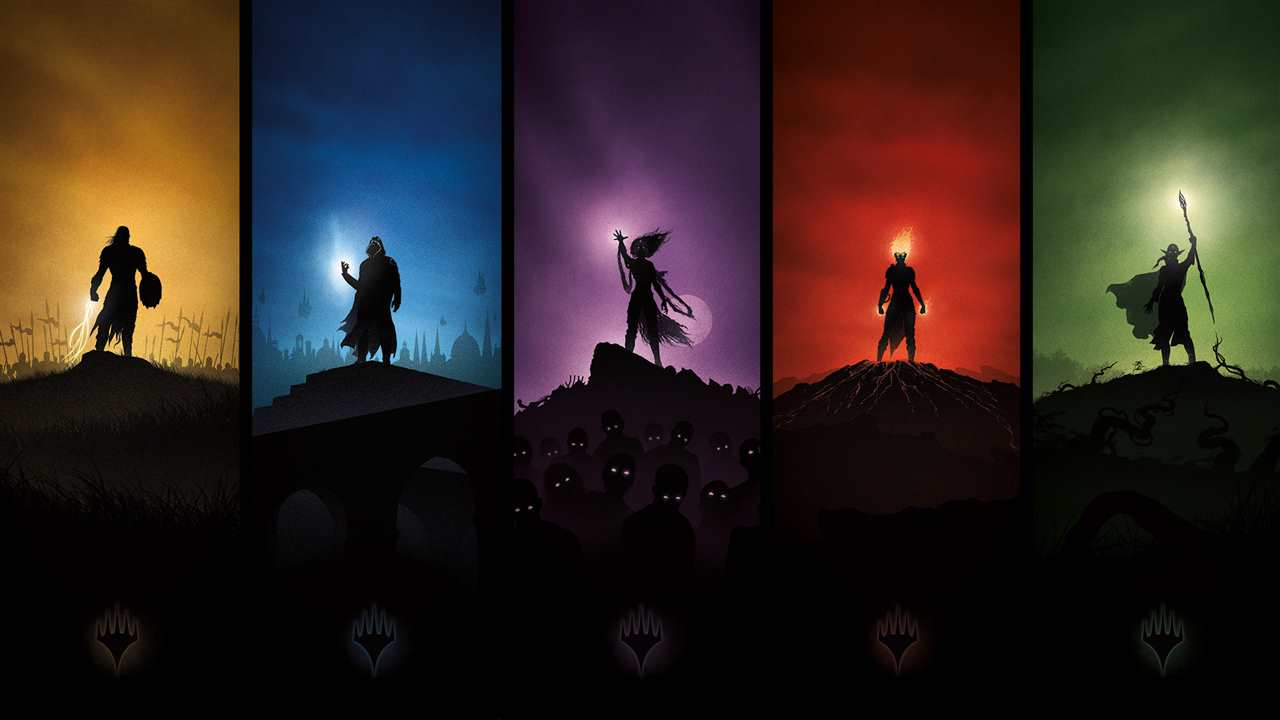
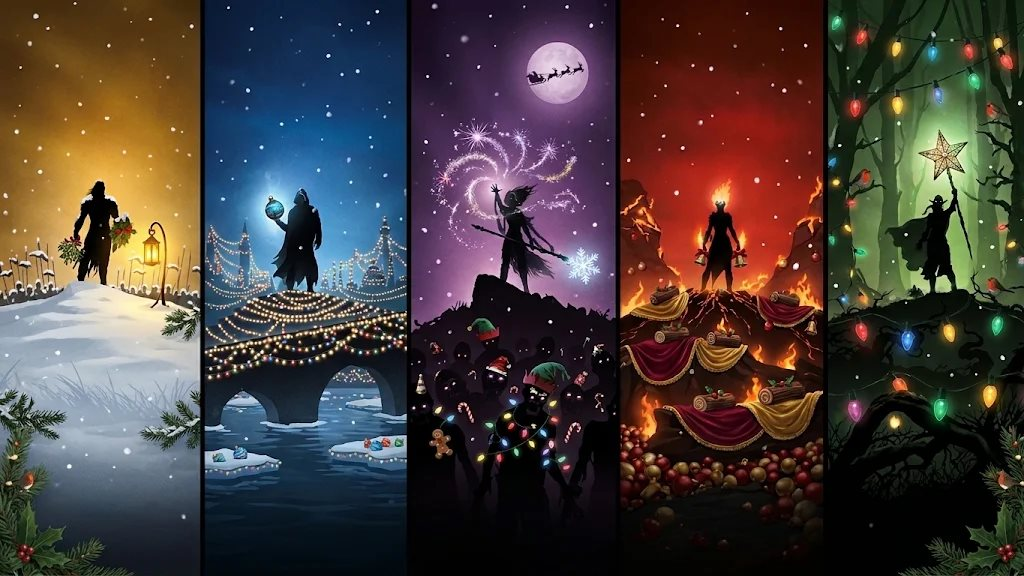
mtgadvent: new background, add offline --shuffle command, reshuffle days

diff --git a/draftsets.js b/draftsets.js
@@ -1,1 +1,1 @@
-window.MTGADVENT_DATA = {"year":2026,"exclude":["om1"],"sets":{"woe":{"name":"Wilds of Eldraine","released":"2023-09-08","icon":"https://svgs.scryfall.io/sets/woe.svg?1793595600","art":"https://cards.scryfall.io/art_crop/front/0/9/092c48bd-b648-4c9e-aa99-cac3c407911d.jpg?1783915130","artCard":"Moonshaker Cavalry","artist":"Aldo Domínguez","blurb":"Fairy-tale chaos with Roles, Bargain, Adventures and Food in a storybook forest."},"lci":{"name":"The Lost Caverns of Ixalan","released":"2023-11-17","icon":"https://svgs.scryfall.io/sets/lci.svg?1793595600","art":"https://cards.scryfall.io/art_crop/front/3/2/32fd8b7c-baf3-4d3d-be6f-044a917b11a0.jpg?1783913723","artCard":"Roaming Throne","artist":"Cristi Balanescu","blurb":"Dinosaurs, pirates, vampires and merfolk hunt for treasure with Discover, Craft and Descend."},"mkm":{"name":"Murders at Karlov Manor","released":"2024-02-09","icon":"https://svgs.scryfall.io/sets/mkm.svg?1793595600","art":"https://cards.scryfall.io/art_crop/front/b/e/be219928-3d0e-4d00-b124-152ce8a8c13b.jpg?1783912925","artCard":"Delney, Streetwise Lookout","artist":"Darren Tan","blurb":"A murder-mystery whodunit built on Investigate, Collect Evidence, Disguise and Cases to solve."},"otj":{"name":"Outlaws of Thunder Junction","released":"2024-04-19","icon":"https://svgs.scryfall.io/sets/otj.svg?1793595600","art":"https://cards.scryfall.io/art_crop/front/5/2/52eef0d6-24b7-40b7-8403-e8e863d0cd55.jpg?1783911810","artCard":"Bristly Bill, Spine Sower","artist":"Daniel Zrom","blurb":"Wild West heists and showdowns with Plot, Spree, Saddle and crimes that pay off."},"blb":{"name":"Bloomburrow","released":"2024-08-02","icon":"https://svgs.scryfall.io/sets/blb.svg?1793595600","art":"https://cards.scryfall.io/art_crop/front/a/d/ade32396-8841-4ba4-8852-d11146607f21.jpg?1783910846","artCard":"Mockingbird","artist":"Aurore Folny","blurb":"Ten woodland-animal tribes brawl with Offspring, Gift, Forage and Valiant."},"dsk":{"name":"Duskmourn: House of Horror","released":"2024-09-27","icon":"https://svgs.scryfall.io/sets/dsk.svg?1793595600","art":"https://cards.scryfall.io/art_crop/front/9/d/9d76a30c-0431-4334-892a-9822dda9671a.jpg?1783909457","artCard":"Enduring Vitality","artist":"Valera Lutfullina","blurb":"Haunted-house horror with Rooms, Survival, Impending and Manifest Dread."},"fdn":{"name":"Foundations","released":"2024-11-15","icon":"https://svgs.scryfall.io/sets/fdn.svg?1793595600","art":"https://cards.scryfall.io/art_crop/front/a/1/a1176dcf-40ee-4342-aa74-791b8352e99a.jpg?1783909088","artCard":"Scrawling Crawler","artist":"Miro Petrov","blurb":"The greatest hits: classic creature types and evergreen keywords from across Magic history."},"dft":{"name":"Aetherdrift","released":"2025-02-14","icon":"https://svgs.scryfall.io/sets/dft.svg?1793595600","art":"https://cards.scryfall.io/art_crop/front/d/7/d79ca40a-e5c0-4956-8df0-ecbd2a25656f.jpg?1783907895","artCard":"Gonti, Night Minister","artist":"Scott M. Fischer","blurb":"A high-speed racing set run on Speed, Start Your Engines, Exhaust and Vehicles."},"tdm":{"name":"Tarkir: Dragonstorm","released":"2025-04-11","icon":"https://svgs.scryfall.io/sets/tdm.svg?1793595600","art":"https://cards.scryfall.io/art_crop/front/e/c/ec3de5f4-bb55-4ab9-995f-f3e0dc22c1bb.jpg?1783907401","artCard":"Voice of Victory","artist":"Joshua Cairos","blurb":"Dragons and the five khan clans with Mobilize, Omens, Harmonize and Renew."},"fin":{"name":"Final Fantasy","released":"2025-06-13","icon":"https://svgs.scryfall.io/sets/fin.svg?1793595600","art":"https://cards.scryfall.io/art_crop/front/e/c/ecc1027a-8c07-44a0-bdde-fa2844cff694.jpg?1783906561","artCard":"Vivi Ornitier","artist":"Toni Infante","blurb":"Final Fantasy jobs and summons: Job Select equipment, Saga creatures and Towns."},"eoe":{"name":"Edge of Eternities","released":"2025-08-01","icon":"https://svgs.scryfall.io/sets/eoe.svg?1793595600","art":"https://cards.scryfall.io/art_crop/front/d/9/d9482aab-6ddf-48e1-84fa-b13d5ff81e69.jpg?1783905935","artCard":"Icetill Explorer","artist":"Warren Mahy","blurb":"Space opera with Station, Warp, Void and Lander tokens out past the edge of the galaxy."},"spm":{"name":"Marvel's Spider-Man","released":"2025-09-26","icon":"https://svgs.scryfall.io/sets/spm.svg?1793595600","art":"https://cards.scryfall.io/art_crop/front/d/6/d672cfad-e656-47f8-bf93-64f262aff33e.jpg?1783905338","artCard":"Electro, Assaulting Battery","artist":"Piotr Dura","blurb":"Heroes, villains and Spider-people swinging through Marvel’s New York."},"tla":{"name":"Avatar: The Last Airbender","released":"2025-11-21","icon":"https://svgs.scryfall.io/sets/tla.svg?1793595600","art":"https://cards.scryfall.io/art_crop/front/3/4/340c5799-4964-44dd-8c48-8f3f3aba5211.jpg?1786399172","artCard":"Badgermole Cub","artist":"Nathaniel Himawan","blurb":"Four nations, four elements, and Airbending, Earthbending, Firebending and Waterbending."},"ecl":{"name":"Lorwyn Eclipsed","released":"2026-01-23","icon":"https://svgs.scryfall.io/sets/ecl.svg?1793595600","art":"https://cards.scryfall.io/art_crop/front/6/7/674960ce-ff33-4d5e-a24a-a4582b2e9809.jpg?1783904442","artCard":"Hexing Squelcher","artist":"Matt Stewart","blurb":"Lorwyn’s light and shadow with tribal synergies, Changelings, Blight and Vivid."},"tmt":{"name":"Teenage Mutant Ninja Turtles","released":"2026-03-06","icon":"https://svgs.scryfall.io/sets/tmt.svg?1793595600","art":"https://cards.scryfall.io/art_crop/front/8/8/88d36c32-d6f9-46e4-9cc8-08e6c0ff05d2.jpg?1783904066","artCard":"Krang, Utrom Warlord","artist":"Lordigan","blurb":"Teenage mutants in the shadows: Sneak, Disappear, Alliance and Mutagen tokens."},"sos":{"name":"Secrets of Strixhaven","released":"2026-04-24","icon":"https://svgs.scryfall.io/sets/sos.svg?1793595600","art":"https://cards.scryfall.io/art_crop/front/8/b/8b1e10e8-ea14-4761-910b-4072e2a18456.jpg?1783903680","artCard":"Grave Researcher // Reanimate","artist":"Izzy","blurb":"Five colleges built around instants and sorceries, with Opus, Increment and Infusion."},"msh":{"name":"Marvel Super Heroes","released":"2026-06-26","icon":"https://svgs.scryfall.io/sets/msh.svg?1793595600","art":"https://cards.scryfall.io/art_crop/front/3/2/32ddd5ac-57ed-4e78-8932-a65980191f6e.jpg?1783902889","artCard":"Ultron, Artificial Malevolence","artist":"Nino Is","blurb":"Heroes versus villains with Power-Up, Teamwork, Plans and transforming legends."},"hob":{"name":"The Hobbit","released":"2026-08-14","icon":"https://svgs.scryfall.io/sets/hob.svg?1793595600","art":"https://cards.scryfall.io/art_crop/front/c/9/c977fb5f-4436-41d0-af68-93b6d05897e5.jpg?1784376948","artCard":"The Queen of Dale","artist":"Magali Villeneuve","blurb":"The Battle of Five Armies, with Storied, Hone counters, Adventures, Amass and Landfall."},"fra":{"name":"Reality Fracture","released":"2026-10-02","icon":"https://svgs.scryfall.io/sets/fra.svg?1793595600","art":"https://cards.scryfall.io/art_crop/front/b/a/ba920f23-f05c-410e-8516-c93abedf1d4d.jpg?1789729662","artCard":"Samut, Hazoret's Champion","artist":"Grzegorz Rutkowski","blurb":"A multiverse in flux with Heartwood mana tokens, Prepared, Surveil and Threshold."},"trk":{"name":"Star Trek","released":"2026-11-13","icon":"https://svgs.scryfall.io/sets/trk.svg?1793595600","art":"https://cards.scryfall.io/art_crop/front/e/f/ef9c5790-d909-4271-90bd-5fa4816ddd6b.jpg?1784065540","artCard":"Dr. Beverly Crusher","artist":"Mattia Rangoni","blurb":"Starfleet crews and the Beam Me Up mechanic. Plan ahead before you boldly go."}},"days":[{"day":1,"sets":["tdm","trk"],"title":"Warp-Speed Dragons","description":"Khan clans meet Starfleet crews. Big dragons need big plans."},{"day":2,"sets":["tmt","mkm"],"title":"Ninja Detectives","description":"Sneak up on the crime scene with mutagen and disguises."},{"day":3,"sets":["ecl","blb"],"title":"Shadows of the Woodland Court","description":"Lorwyn’s light and shadow collide with Bloomburrow’s animal tribes. Tribal heaven."},{"day":4,"sets":["fra","dsk"],"title":"Haunted Multiverse","description":"Reality cracks open inside a haunted house. Surveil, survive, repeat."},{"day":5,"sets":["lci","eoe"],"title":"Deep-Space Caverns","description":"Dig for treasure under the surface, then dig for the stars."},{"day":6,"sets":["dft","fdn"],"title":"Greatest Hits Grand Prix","description":"Classic cards behind the wheel of a race that never lets up."},{"day":7,"sets":["otj"],"title":"High Noon Heist","description":"One set, one town, and a whole lot of crimes. Saddle up."},{"day":8,"sets":["tla","msh"],"title":"Heroes of Every Element","description":"Benders and Avengers-style teams on the same side for once."},{"day":9,"sets":["fin","sos"],"title":"Summoning Academy","description":"Crystal-bright summons enroll in a school of spells."},{"day":10,"sets":["woe","spm"],"title":"Fairy-Tale Web","description":"Storybook roles and food tokens, plus wall-crawlers and their villains."},{"day":11,"sets":["hob","tla"],"title":"There and Back Again, Bending","description":"Dwarves, goblins and the four nations all marching to war."},{"day":12,"sets":["hob"],"title":"An Unexpected Draft","description":"Five armies, one set, and a surprising number of adventures."},{"day":13,"sets":["fin","otj"],"title":"Crystal Outlaws","description":"Final Fantasy jobs ride out to the Wild West for one last heist."},{"day":14,"sets":["trk","lci"],"title":"Jurassic Starship","description":"Dinosaurs have boarded the bridge. Beam them up, or hide in a cave."},{"day":15,"sets":["tmt","spm"],"title":"Friendly Neighborhood Ninjas","description":"Two masked heroes, one city, and a lot of sneaking around."},{"day":16,"sets":["ecl","fdn"],"title":"Kindred Classics","description":"Tribal synergy with the most recognizable cards in Magic."},{"day":17,"sets":["dft","eoe"],"title":"Race to the Edge","description":"Fast cars and faster ships. Start your engines and warp."},{"day":18,"sets":["dsk","mkm"],"title":"Whodunit Manor","description":"A murder in a haunted house. Everyone is a suspect, including the house."},{"day":19,"sets":["msh","fra"],"title":"Hero Fracture","description":"Heroes and villains fight across a fractured, ever-shifting multiverse."},{"day":20,"sets":["blb","sos"],"title":"Critter College","description":"Woodland animals enroll in school. Casting spells is mandatory."},{"day":21,"sets":["woe","tdm"],"title":"Once Upon a Dragon","description":"A fairy tale where the dragon is on the winning team."},{"day":22,"sets":["blb","lci"],"title":"Beasts Below","description":"Burrowing critters meet dinosaurs in the dark."},{"day":23,"sets":["otj","dsk"],"title":"Ghost Town","description":"A Wild West town where the residents never left."},{"day":24,"sets":["eoe","woe"],"title":"Starlight Storybook","description":"Once upon a time, in a galaxy far from the forest."},{"day":25,"sets":["trk"],"title":"The Final Frontier","description":"Christmas Day: boldly go where no draft has gone before."}]};
+window.MTGADVENT_DATA = {"year":2026,"exclude":["om1"],"sets":{"woe":{"name":"Wilds of Eldraine","released":"2023-09-08","icon":"https://svgs.scryfall.io/sets/woe.svg?1793595600","art":"https://cards.scryfall.io/art_crop/front/0/9/092c48bd-b648-4c9e-aa99-cac3c407911d.jpg?1783915130","artCard":"Moonshaker Cavalry","artist":"Aldo Domínguez","blurb":"Fairy-tale chaos with Roles, Bargain, Adventures and Food in a storybook forest."},"lci":{"name":"The Lost Caverns of Ixalan","released":"2023-11-17","icon":"https://svgs.scryfall.io/sets/lci.svg?1793595600","art":"https://cards.scryfall.io/art_crop/front/3/2/32fd8b7c-baf3-4d3d-be6f-044a917b11a0.jpg?1783913723","artCard":"Roaming Throne","artist":"Cristi Balanescu","blurb":"Dinosaurs, pirates, vampires and merfolk hunt for treasure with Discover, Craft and Descend."},"mkm":{"name":"Murders at Karlov Manor","released":"2024-02-09","icon":"https://svgs.scryfall.io/sets/mkm.svg?1793595600","art":"https://cards.scryfall.io/art_crop/front/b/e/be219928-3d0e-4d00-b124-152ce8a8c13b.jpg?1783912925","artCard":"Delney, Streetwise Lookout","artist":"Darren Tan","blurb":"A murder-mystery whodunit built on Investigate, Collect Evidence, Disguise and Cases to solve."},"otj":{"name":"Outlaws of Thunder Junction","released":"2024-04-19","icon":"https://svgs.scryfall.io/sets/otj.svg?1793595600","art":"https://cards.scryfall.io/art_crop/front/5/2/52eef0d6-24b7-40b7-8403-e8e863d0cd55.jpg?1783911810","artCard":"Bristly Bill, Spine Sower","artist":"Daniel Zrom","blurb":"Wild West heists and showdowns with Plot, Spree, Saddle and crimes that pay off."},"blb":{"name":"Bloomburrow","released":"2024-08-02","icon":"https://svgs.scryfall.io/sets/blb.svg?1793595600","art":"https://cards.scryfall.io/art_crop/front/a/d/ade32396-8841-4ba4-8852-d11146607f21.jpg?1783910846","artCard":"Mockingbird","artist":"Aurore Folny","blurb":"Ten woodland-animal tribes brawl with Offspring, Gift, Forage and Valiant."},"dsk":{"name":"Duskmourn: House of Horror","released":"2024-09-27","icon":"https://svgs.scryfall.io/sets/dsk.svg?1793595600","art":"https://cards.scryfall.io/art_crop/front/9/d/9d76a30c-0431-4334-892a-9822dda9671a.jpg?1783909457","artCard":"Enduring Vitality","artist":"Valera Lutfullina","blurb":"Haunted-house horror with Rooms, Survival, Impending and Manifest Dread."},"fdn":{"name":"Foundations","released":"2024-11-15","icon":"https://svgs.scryfall.io/sets/fdn.svg?1793595600","art":"https://cards.scryfall.io/art_crop/front/a/1/a1176dcf-40ee-4342-aa74-791b8352e99a.jpg?1783909088","artCard":"Scrawling Crawler","artist":"Miro Petrov","blurb":"The greatest hits: classic creature types and evergreen keywords from across Magic history."},"dft":{"name":"Aetherdrift","released":"2025-02-14","icon":"https://svgs.scryfall.io/sets/dft.svg?1793595600","art":"https://cards.scryfall.io/art_crop/front/d/7/d79ca40a-e5c0-4956-8df0-ecbd2a25656f.jpg?1783907895","artCard":"Gonti, Night Minister","artist":"Scott M. Fischer","blurb":"A high-speed racing set run on Speed, Start Your Engines, Exhaust and Vehicles."},"tdm":{"name":"Tarkir: Dragonstorm","released":"2025-04-11","icon":"https://svgs.scryfall.io/sets/tdm.svg?1793595600","art":"https://cards.scryfall.io/art_crop/front/e/c/ec3de5f4-bb55-4ab9-995f-f3e0dc22c1bb.jpg?1783907401","artCard":"Voice of Victory","artist":"Joshua Cairos","blurb":"Dragons and the five khan clans with Mobilize, Omens, Harmonize and Renew."},"fin":{"name":"Final Fantasy","released":"2025-06-13","icon":"https://svgs.scryfall.io/sets/fin.svg?1793595600","art":"https://cards.scryfall.io/art_crop/front/e/c/ecc1027a-8c07-44a0-bdde-fa2844cff694.jpg?1783906561","artCard":"Vivi Ornitier","artist":"Toni Infante","blurb":"Final Fantasy jobs and summons: Job Select equipment, Saga creatures and Towns."},"eoe":{"name":"Edge of Eternities","released":"2025-08-01","icon":"https://svgs.scryfall.io/sets/eoe.svg?1793595600","art":"https://cards.scryfall.io/art_crop/front/d/9/d9482aab-6ddf-48e1-84fa-b13d5ff81e69.jpg?1783905935","artCard":"Icetill Explorer","artist":"Warren Mahy","blurb":"Space opera with Station, Warp, Void and Lander tokens out past the edge of the galaxy."},"spm":{"name":"Marvel's Spider-Man","released":"2025-09-26","icon":"https://svgs.scryfall.io/sets/spm.svg?1793595600","art":"https://cards.scryfall.io/art_crop/front/d/6/d672cfad-e656-47f8-bf93-64f262aff33e.jpg?1783905338","artCard":"Electro, Assaulting Battery","artist":"Piotr Dura","blurb":"Heroes, villains and Spider-people swinging through Marvel’s New York."},"tla":{"name":"Avatar: The Last Airbender","released":"2025-11-21","icon":"https://svgs.scryfall.io/sets/tla.svg?1793595600","art":"https://cards.scryfall.io/art_crop/front/3/4/340c5799-4964-44dd-8c48-8f3f3aba5211.jpg?1786399172","artCard":"Badgermole Cub","artist":"Nathaniel Himawan","blurb":"Four nations, four elements, and Airbending, Earthbending, Firebending and Waterbending."},"ecl":{"name":"Lorwyn Eclipsed","released":"2026-01-23","icon":"https://svgs.scryfall.io/sets/ecl.svg?1793595600","art":"https://cards.scryfall.io/art_crop/front/6/7/674960ce-ff33-4d5e-a24a-a4582b2e9809.jpg?1783904442","artCard":"Hexing Squelcher","artist":"Matt Stewart","blurb":"Lorwyn’s light and shadow with tribal synergies, Changelings, Blight and Vivid."},"tmt":{"name":"Teenage Mutant Ninja Turtles","released":"2026-03-06","icon":"https://svgs.scryfall.io/sets/tmt.svg?1793595600","art":"https://cards.scryfall.io/art_crop/front/8/8/88d36c32-d6f9-46e4-9cc8-08e6c0ff05d2.jpg?1783904066","artCard":"Krang, Utrom Warlord","artist":"Lordigan","blurb":"Teenage mutants in the shadows: Sneak, Disappear, Alliance and Mutagen tokens."},"sos":{"name":"Secrets of Strixhaven","released":"2026-04-24","icon":"https://svgs.scryfall.io/sets/sos.svg?1793595600","art":"https://cards.scryfall.io/art_crop/front/8/b/8b1e10e8-ea14-4761-910b-4072e2a18456.jpg?1783903680","artCard":"Grave Researcher // Reanimate","artist":"Izzy","blurb":"Five colleges built around instants and sorceries, with Opus, Increment and Infusion."},"msh":{"name":"Marvel Super Heroes","released":"2026-06-26","icon":"https://svgs.scryfall.io/sets/msh.svg?1793595600","art":"https://cards.scryfall.io/art_crop/front/3/2/32ddd5ac-57ed-4e78-8932-a65980191f6e.jpg?1783902889","artCard":"Ultron, Artificial Malevolence","artist":"Nino Is","blurb":"Heroes versus villains with Power-Up, Teamwork, Plans and transforming legends."},"hob":{"name":"The Hobbit","released":"2026-08-14","icon":"https://svgs.scryfall.io/sets/hob.svg?1793595600","art":"https://cards.scryfall.io/art_crop/front/c/9/c977fb5f-4436-41d0-af68-93b6d05897e5.jpg?1784376948","artCard":"The Queen of Dale","artist":"Magali Villeneuve","blurb":"The Battle of Five Armies, with Storied, Hone counters, Adventures, Amass and Landfall."},"fra":{"name":"Reality Fracture","released":"2026-10-02","icon":"https://svgs.scryfall.io/sets/fra.svg?1793595600","art":"https://cards.scryfall.io/art_crop/front/b/a/ba920f23-f05c-410e-8516-c93abedf1d4d.jpg?1789729662","artCard":"Samut, Hazoret's Champion","artist":"Grzegorz Rutkowski","blurb":"A multiverse in flux with Heartwood mana tokens, Prepared, Surveil and Threshold."},"trk":{"name":"Star Trek","released":"2026-11-13","icon":"https://svgs.scryfall.io/sets/trk.svg?1793595600","art":"https://cards.scryfall.io/art_crop/front/e/f/ef9c5790-d909-4271-90bd-5fa4816ddd6b.jpg?1784065540","artCard":"Dr. Beverly Crusher","artist":"Mattia Rangoni","blurb":"Starfleet crews and the Beam Me Up mechanic. Plan ahead before you boldly go."}},"days":[{"day":1,"sets":["tdm","blb"],"title":"Tarkir: Dragonstorm × Bloomburrow","description":"Dragons and the five khan clans with Mobilize, Omens, Harmonize and Renew. Ten woodland-animal tribes brawl with Offspring, Gift, Forage and Valiant."},{"day":2,"sets":["dft","tla"],"title":"Aetherdrift × Avatar: The Last Airbender","description":"A high-speed racing set run on Speed, Start Your Engines, Exhaust and Vehicles. Four nations, four elements, and Airbending, Earthbending, Firebending and Waterbending."},{"day":3,"sets":["sos","spm"],"title":"Secrets of Strixhaven × Marvel's Spider-Man","description":"Five colleges built around instants and sorceries, with Opus, Increment and Infusion. Heroes, villains and Spider-people swinging through Marvel’s New York."},{"day":4,"sets":["dsk","mkm"],"title":"Duskmourn: House of Horror × Murders at Karlov Manor","description":"Haunted-house horror with Rooms, Survival, Impending and Manifest Dread. A murder-mystery whodunit built on Investigate, Collect Evidence, Disguise and Cases to solve."},{"day":5,"sets":["fdn","woe"],"title":"Foundations × Wilds of Eldraine","description":"The greatest hits: classic creature types and evergreen keywords from across Magic history. Fairy-tale chaos with Roles, Bargain, Adventures and Food in a storybook forest."},{"day":6,"sets":["eoe"],"title":"Edge of Eternities","description":"Space opera with Station, Warp, Void and Lander tokens out past the edge of the galaxy."},{"day":7,"sets":["hob","otj"],"title":"The Hobbit × Outlaws of Thunder Junction","description":"The Battle of Five Armies, with Storied, Hone counters, Adventures, Amass and Landfall. Wild West heists and showdowns with Plot, Spree, Saddle and crimes that pay off."},{"day":8,"sets":["trk","msh"],"title":"Star Trek × Marvel Super Heroes","description":"Starfleet crews and the Beam Me Up mechanic. Plan ahead before you boldly go. Heroes versus villains with Power-Up, Teamwork, Plans and transforming legends."},{"day":9,"sets":["fra","tmt"],"title":"Reality Fracture × Teenage Mutant Ninja Turtles","description":"A multiverse in flux with Heartwood mana tokens, Prepared, Surveil and Threshold. Teenage mutants in the shadows: Sneak, Disappear, Alliance and Mutagen tokens."},{"day":10,"sets":["ecl","lci"],"title":"Lorwyn Eclipsed × The Lost Caverns of Ixalan","description":"Lorwyn’s light and shadow with tribal synergies, Changelings, Blight and Vivid. Dinosaurs, pirates, vampires and merfolk hunt for treasure with Discover, Craft and Descend."},{"day":11,"sets":["fin","hob"],"title":"Final Fantasy × The Hobbit","description":"Final Fantasy jobs and summons: Job Select equipment, Saga creatures and Towns. The Battle of Five Armies, with Storied, Hone counters, Adventures, Amass and Landfall."},{"day":12,"sets":["tmt","mkm"],"title":"Teenage Mutant Ninja Turtles × Murders at Karlov Manor","description":"Teenage mutants in the shadows: Sneak, Disappear, Alliance and Mutagen tokens. A murder-mystery whodunit built on Investigate, Collect Evidence, Disguise and Cases to solve."},{"day":13,"sets":["fra","otj"],"title":"Reality Fracture × Outlaws of Thunder Junction","description":"A multiverse in flux with Heartwood mana tokens, Prepared, Surveil and Threshold. Wild West heists and showdowns with Plot, Spree, Saddle and crimes that pay off."},{"day":14,"sets":["trk","sos"],"title":"Star Trek × Secrets of Strixhaven","description":"Starfleet crews and the Beam Me Up mechanic. Plan ahead before you boldly go. Five colleges built around instants and sorceries, with Opus, Increment and Infusion."},{"day":15,"sets":["blb"],"title":"Bloomburrow","description":"Ten woodland-animal tribes brawl with Offspring, Gift, Forage and Valiant."},{"day":16,"sets":["dsk","msh"],"title":"Duskmourn: House of Horror × Marvel Super Heroes","description":"Haunted-house horror with Rooms, Survival, Impending and Manifest Dread. Heroes versus villains with Power-Up, Teamwork, Plans and transforming legends."},{"day":17,"sets":["eoe","fin"],"title":"Edge of Eternities × Final Fantasy","description":"Space opera with Station, Warp, Void and Lander tokens out past the edge of the galaxy. Final Fantasy jobs and summons: Job Select equipment, Saga creatures and Towns."},{"day":18,"sets":["spm","woe"],"title":"Marvel's Spider-Man × Wilds of Eldraine","description":"Heroes, villains and Spider-people swinging through Marvel’s New York. Fairy-tale chaos with Roles, Bargain, Adventures and Food in a storybook forest."},{"day":19,"sets":["tla","ecl"],"title":"Avatar: The Last Airbender × Lorwyn Eclipsed","description":"Four nations, four elements, and Airbending, Earthbending, Firebending and Waterbending. Lorwyn’s light and shadow with tribal synergies, Changelings, Blight and Vivid."},{"day":20,"sets":["lci","dft"],"title":"The Lost Caverns of Ixalan × Aetherdrift","description":"Dinosaurs, pirates, vampires and merfolk hunt for treasure with Discover, Craft and Descend. A high-speed racing set run on Speed, Start Your Engines, Exhaust and Vehicles."},{"day":21,"sets":["fdn"],"title":"Foundations","description":"The greatest hits: classic creature types and evergreen keywords from across Magic history."},{"day":22,"sets":["tdm","fdn"],"title":"Tarkir: Dragonstorm × Foundations","description":"Dragons and the five khan clans with Mobilize, Omens, Harmonize and Renew. The greatest hits: classic creature types and evergreen keywords from across Magic history."},{"day":23,"sets":["spm","ecl"],"title":"Marvel's Spider-Man × Lorwyn Eclipsed","description":"Heroes, villains and Spider-people swinging through Marvel’s New York. Lorwyn’s light and shadow with tribal synergies, Changelings, Blight and Vivid."},{"day":24,"sets":["tmt","dsk"],"title":"Teenage Mutant Ninja Turtles × Duskmourn: House of Horror","description":"Teenage mutants in the shadows: Sneak, Disappear, Alliance and Mutagen tokens. Haunted-house horror with Rooms, Survival, Impending and Manifest Dread."},{"day":25,"sets":["tdm","fin"],"title":"Tarkir: Dragonstorm × Final Fantasy","description":"Dragons and the five khan clans with Mobilize, Omens, Harmonize and Renew. Final Fantasy jobs and summons: Job Select equipment, Saga creatures and Towns."}]};

diff --git a/tools/mtgadvent-build.js b/tools/mtgadvent-build.js
@@ -2,6 +2,7 @@
 // Refreshes draftsets.json for the MTG advent calendar from Scryfall.
 //
 //   node tools/mtgadvent-build.js [year] [--reshuffle]
+//   node tools/mtgadvent-build.js --shuffle [--seed=N]   (offline: new day assignments only, no Scryfall)
 //
 // - Finds every core/expansion set that has Standard-legal cards right now
 //   (minus the "exclude" list stored in the JSON, e.g. non-draftable supplements).
@@ -28,6 +29,8 @@ const MIN_LEGAL = 100;
 
 const args = process.argv.slice(2);
 const reshuffle = args.includes('--reshuffle');
+const shuffleOnly = args.includes('--shuffle');
+const seedArg = (args.find(a => a.startsWith('--seed=')) || '').slice(7);
 const year = Number(args.find(a => /^\d{4}$/.test(a))) || new Date().getFullYear();
 
 const sleep = ms => new Promise(r => setTimeout(r, ms));
@@ -131,6 +134,33 @@ function buildDays(codes, rand) {
     return days;
 }
 
+function writeOut(out) {
+    fs.writeFileSync(OUT, JSON.stringify(out, null, 2) + '\n');
+    fs.writeFileSync(OUT_JS, 'window.MTGADVENT_DATA = ' + JSON.stringify(out) + ';\n');
+}
+
+function assignDays(sets, rand) {
+    const days = buildDays(Object.keys(sets), rand);
+    days.forEach(d => {
+        d.title = d.sets.map(c => sets[c].name).join(' × ');
+        d.description = d.sets.map(c => sets[c].blurb).filter(Boolean).join(' ');
+    });
+    return days;
+}
+
+// Offline reshuffle: keeps the sets already in draftsets.json and applies the same rules
+// (25 days, ~85% pairs, even set usage, no repeated pair) with a fresh random seed.
+if (shuffleOnly) {
+    if (!fs.existsSync(OUT)) { console.error('No draftsets.json yet; run the full build first.'); process.exit(1); }
+    const data = JSON.parse(fs.readFileSync(OUT, 'utf8'));
+    const seed = seedArg ? Number(seedArg) : Math.floor(Math.random() * 1e9);
+    data.days = assignDays(data.sets, mulberry32(seed));
+    writeOut(data);
+    console.log(`Reshuffled ${data.days.length} days with seed ${seed} (rerun with --seed=${seed} to reproduce).`);
+    data.days.forEach(d => console.log(`  ${String(d.day).padStart(2)}  ${d.sets.join(' + ')}`));
+    process.exit(0);
+}
+
 (async () => {
     const existing = fs.existsSync(OUT) ? JSON.parse(fs.readFileSync(OUT, 'utf8')) : {};
     const exclude = Array.isArray(existing.exclude) ? existing.exclude : [];
@@ -171,11 +201,7 @@ function buildDays(codes, rand) {
         days = existing.days;
         console.log('Kept existing day assignments (use --reshuffle to redo them).');
     } else {
-        days = buildDays(codes, mulberry32(year));
-        days.forEach(d => {
-            d.title = d.sets.map(c => sets[c].name).join(' × ');
-            d.description = d.sets.map(c => sets[c].blurb).filter(Boolean).join(' ');
-        });
+        days = assignDays(sets, mulberry32(year));
         console.log('Generated new day assignments.');
     }
 
@@ -183,7 +209,6 @@ function buildDays(codes, rand) {
     if (missing.length) console.log(`Needs a blurb: ${missing.join(', ')}`);
 
     const out = { year, exclude, sets, days };
-    fs.writeFileSync(OUT, JSON.stringify(out, null, 2) + '\n');
-    fs.writeFileSync(OUT_JS, 'window.MTGADVENT_DATA = ' + JSON.stringify(out) + ';\n');
+    writeOut(out);
     console.log(`Wrote ${path.relative(process.cwd(), OUT)}: ${codes.length} sets, ${days.length} days.`);
 })().catch(e => { console.error(e); process.exit(1); });

diff --git a/mtgadvent.html b/mtgadvent.html
@@ -14,7 +14,7 @@
             background-color: #0f1626;
             background-image:
                 linear-gradient(180deg, rgba(26,42,78,0.6) 0%, rgba(15,22,38,0.7) 50%, rgba(45,27,78,0.6) 100%),
-                url('mtgadvent-bg.jpg');
+                url('mtgadvent-bg.jpg?v=2');
             background-size: cover;
             background-position: center;
             min-height: 100vh;
